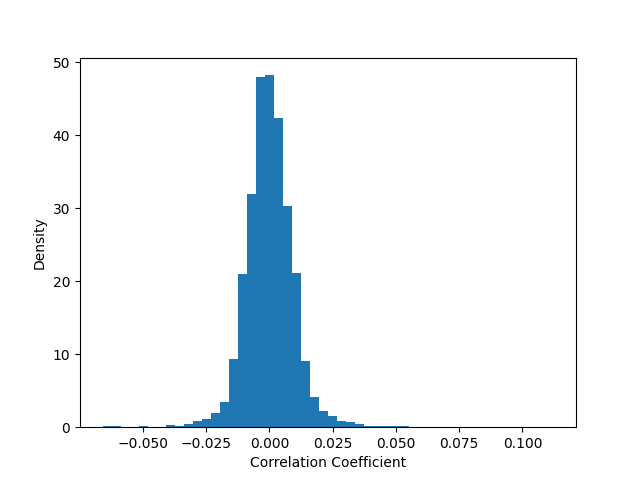
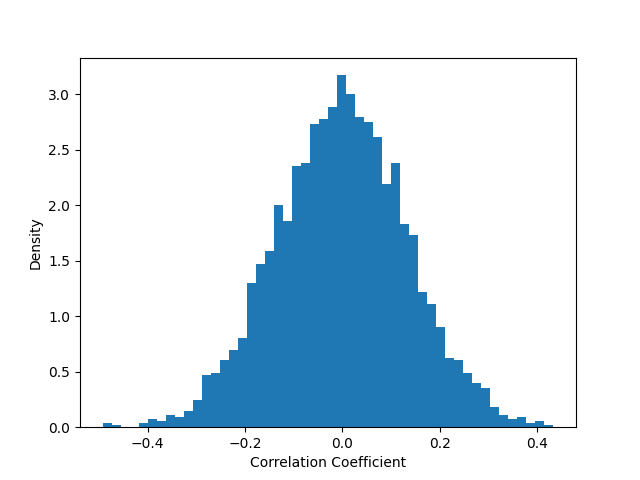
add seed

diff --git a/attack_results.py b/attack_results.py
@@ -3,7 +3,7 @@ from PIL import Image
 import torchvision.transforms as T
 from tqdm import tqdm
 from torch.utils.data import DataLoader, Dataset, Subset
-from apgd_attack import APGDAttack
+from apgd_attack import APGDAttack, PGDAttack
 from paper_results.temp_neuralhash import NeuralHash
 import time
 from torchvision import  transforms
@@ -11,8 +11,9 @@ import onnx
 import os
 import seaborn as sns
 import matplotlib.pyplot as plt
+from hashes.dinohash import DINOHash
 
-preprocess = lambda x: np.array(x.convert("RGB").resize([360, 360])).astype(np.float32) / 255.0
+preprocess = lambda x: np.array(x.convert("RGB").resize([192, 192])).astype(np.float32) / 255.0
 
 class ImageDataset(Dataset):
     def __init__(self, image_files):
@@ -25,16 +26,19 @@ class ImageDataset(Dataset):
         image = Image.open(self.image_files[idx]).convert("RGB")
         return preprocess(image).transpose(2,0,1), self.image_files[idx]
 
-epsilon = 32/255
+epsilon = 8/255
 
 onnx_model = onnx.load("./hashes/model.onnx")
 neuralhash = NeuralHash(onnx_model).cuda()
+# neuralhash = DINOHash(prod_mode=False)
+# neuralhash.load_model('dino.pth')
+
 apgd = APGDAttack(neuralhash, eps=epsilon)
 
 folder = "/mnt/additional-disk/home/singh/benchmarking/diffusion_data"
 image_files = [os.path.join(folder, f) for f in os.listdir(folder) if os.path.isfile(os.path.join(folder, f))]
 image_files.sort()
-image_files = image_files[-100_000:]
+image_files = image_files[-1024:]
 
 dataset = ImageDataset(image_files)
 dataloader = DataLoader(dataset, batch_size=256, shuffle=False, num_workers=4)
@@ -54,25 +58,23 @@ for image_tensors, labels in tqdm(dataloader):
     logits = neuralhash.hash(image_tensors, logits=True, differentiable=False)
     logits_bits = (logits >= 0).cpu().numpy()
     hashes.extend(logits_bits)
-
-    adv_images, _ = apgd.attack_single_run(image_tensors, logits, n_iter=10)
+    # logits_std = logits.std().cpu().numpy()
+    # print(f"Standard deviation of logits: {logits_std}")
+    adv_images, _ = apgd.attack_single_run(image_tensors, logits, n_iter=50)
 
     # image_after_attack = adv_images[0] 
     # to_pil(image_after_attack).save(f"image_after_attack.png")
 
     adv_logits = neuralhash.hash(adv_images, logits=True, differentiable=False)
 
-    adv_logits_bits = (adv_logits[0]>=0).flatten()
-    logits_bits = (logits[0]>=0).flatten()
+    adv_logits_bits = (adv_logits>=0).float()
+    logits_bits = (logits>=0).float()
 
-
-    diff = (adv_logits_bits != logits_bits).sum()
-
-    acc = ((adv_logits>=0) == (logits>=0)).float().mean(1).cpu().numpy()
+    acc = (adv_logits_bits - logits_bits).abs().mean(1).cpu().numpy()
     accs += acc.sum().item()
     count += len(acc)
-    if count % 4096 == 0:
-        print(f"Processed {count} images, current accuracy: {accs / count:.6f}")
+    print(logits_bits.shape)
+
 
 print(f"Final accuracy after attack: {accs / count:.6f}")
 

diff --git a/hashes/dinohash.py b/hashes/dinohash.py
@@ -61,8 +61,7 @@ class DINOHash(nn.Module):
             self.components_torch = torch.from_numpy(components).cuda().float()
     
     def load_model(self, path):
-        weights = torch.load(path, weights_only=True)
-        self.dinov2.load_state_dict(torch.load(path, weights_only=True))
+        self.dinov2.load_state_dict(torch.load(path, weights_only=True), strict=True)
     
     def hash(
         self,
@@ -113,19 +112,6 @@ class Hash:
         self.string = ''.join(str(int(x)) for x in self.tensor)
         self.hex = hex(int(self.string, 2))
         self.array = self.tensor.numpy()
-
-model = "vits14_reg"
-# Load model
-dinov2 = torch.hub.load('facebookresearch/dinov2', f'dinov2_{model}').cuda()
-for param in dinov2.parameters():
-    param.requires_grad = False
-dinov2.eval()
-
-means = np.load(f'./hashes/dinov2_{model}_means.npy')
-means_torch = torch.from_numpy(means).cuda().float()
-
-components = np.load(f'./hashes/dinov2_{model}_PCA.npy').T
-components_torch = torch.from_numpy(components).cuda().float()
 
 normalize = transforms.Normalize(mean=[0.485, 0.456, 0.406], std=[0.229, 0.224, 0.225])
 preprocess = transforms.Compose([

diff --git a/paper_results/temp_neuralhash.py b/paper_results/temp_neuralhash.py
@@ -484,8 +484,8 @@ class NeuralHash(nn.Module):
         with wrapper():
             image_arrays = image_arrays.cuda()
             
-            outs = self.forward(image_arrays).squeeze(-1).squeeze(-1)
-            # outs = outs @ self.seed
+            outs = self.forward(image_arrays).squeeze(-1).squeeze(-1) / 30
+            outs = outs @ self.seed
 
             if l2_normalize:
                 outs = torch.nn.functional.normalize(outs, dim=1)

diff --git a/apgd_attack.py b/apgd_attack.py
@@ -403,7 +403,7 @@ class PGDAttack():
             x_adv = x + t + delta
         
         #### NO NOISE VERSION
-        # x_adv = x.clone()
+        x_adv = x.clone()
 
         x_adv = x_adv.clamp(0., 1.)
         x_best = x_adv.clone()
